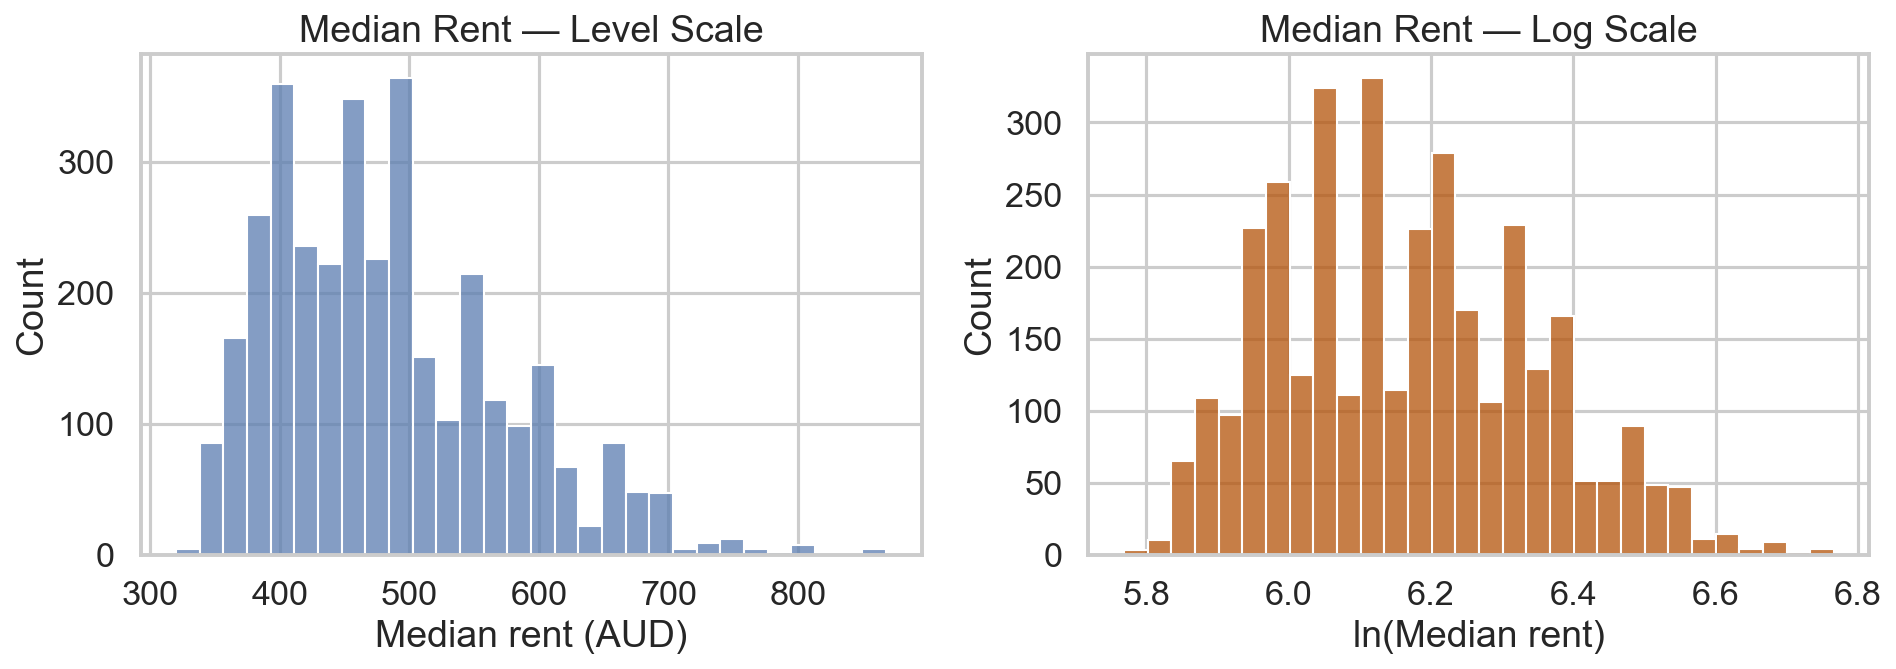
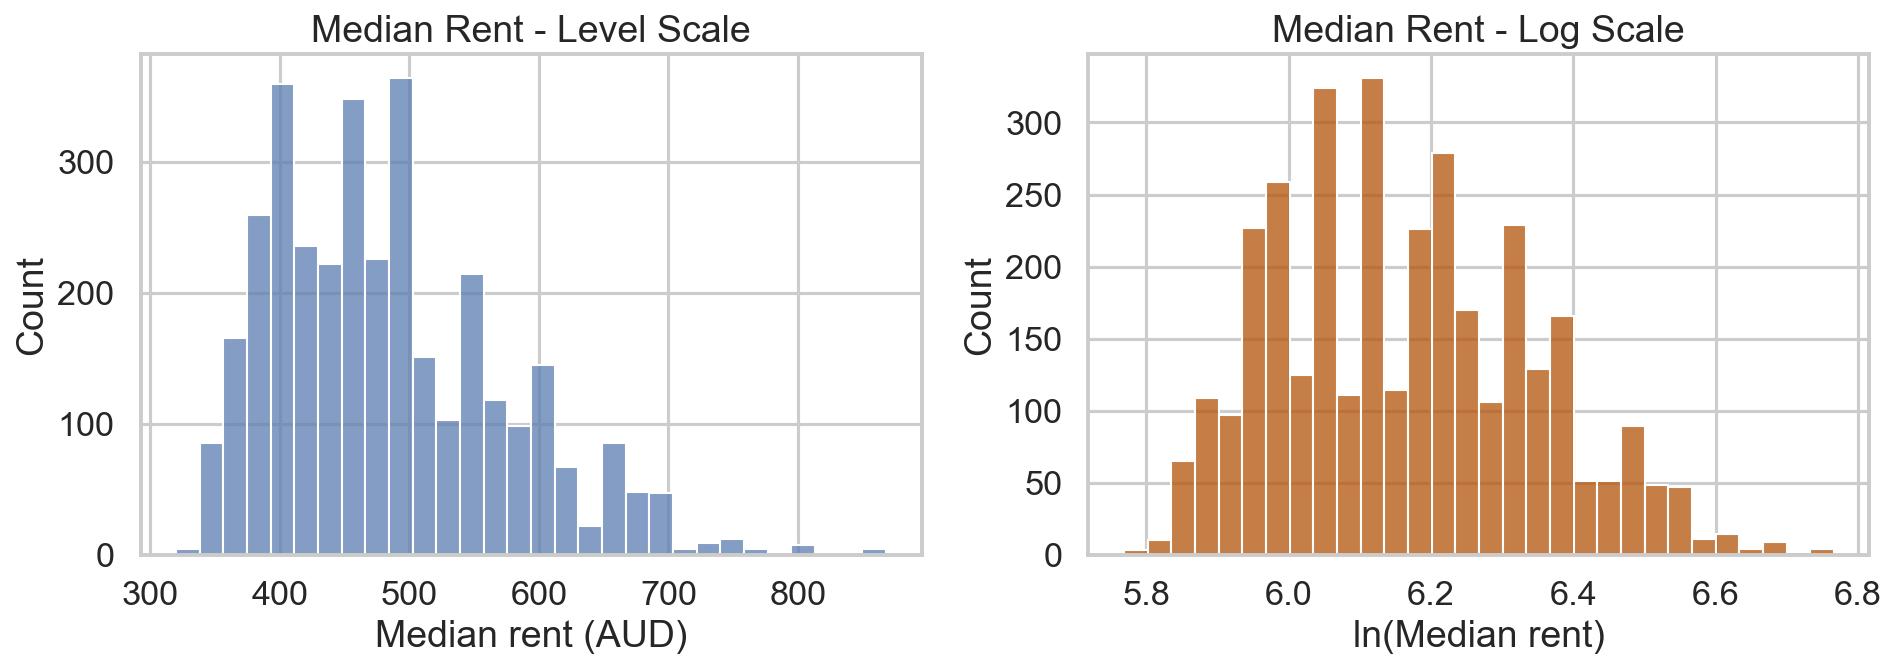
Replace em and en dashes with regular hyphens throughout repo

Changed region(s): [[0.1556, 0.0, 0.4045, 0.0598], [0.6535, 0.0, 0.9024, 0.0897]]

diff --git a/code/01_clean_data.py b/code/01_clean_data.py
@@ -1,5 +1,5 @@
 """
-01_clean_data.py — ECC3479 Research Project
+01_clean_data.py - ECC3479 Research Project
 Author: Anton Kozlovsky (36194239)
 
 PURPOSE:
@@ -27,7 +27,7 @@ import os
 
 # ── 1. CONFIGURATION ──────────────────────────────────────────────────
 # These are the file paths. The rent file should already be in data/raw/.
-# The vacancy file is optional — the script works without it.
+# The vacancy file is optional - the script works without it.
 
 RENT_FILE = "data/raw/Moving annual median rent by suburb and town - September quarter 2025.xlsx"
 VACANCY_FILE = "data/raw/vacancy_rates.csv"  # Add this file when you have it
@@ -53,7 +53,7 @@ START_YEAR = 2018
 # ── 2. LOAD THE RAW RENT DATA ────────────────────────────────────────
 # The Excel file has a messy layout:
 #   Row 0: title row
-#   Row 1: quarter labels (e.g. "Mar 2000", "Jun 2000", ...) — each
+#   Row 1: quarter labels (e.g. "Mar 2000", "Jun 2000", ...) - each
 #          quarter appears TWICE (once for Count, once for Median)
 #   Row 2: "Count" or "Median" labels
 #   Row 3 onwards: actual data

diff --git a/README.md b/README.md
@@ -1,4 +1,4 @@
-# ECC3479 Research Project — Vacancy Rates and Rent Growth
+# ECC3479 Research Project - Vacancy Rates and Rent Growth
 
 **Author:** Anton Kozlovsky (36194239)
 **Course:** ECC3479 Data and Evidence in Economics, Monash University
@@ -8,7 +8,7 @@
 > What is the effect of a suburb's rental vacancy rate on subsequent rent
 > growth in Melbourne?
 
-This project constructs a suburb-quarter panel for Melbourne (2018Q1–2025Q3)
+This project constructs a suburb-quarter panel for Melbourne (2018Q1-2025Q3)
 to investigate the relationship between rental vacancy rates and future rent
 changes using panel fixed effects. The current dataset contains rent data
 only; vacancy rate data could not be obtained due to access restrictions
@@ -88,18 +88,18 @@ written interpretations. Figures are saved to `outputs/`.
 
 - Python 3.9 or later
 - Packages listed in `requirements.txt`:
-  - `pandas` — data manipulation and cleaning
-  - `openpyxl` — reading Excel files
-  - `matplotlib` — plotting
-  - `seaborn` — statistical visualisation
-  - `numpy` — numerical operations
+  - `pandas` - data manipulation and cleaning
+  - `openpyxl` - reading Excel files
+  - `matplotlib` - plotting
+  - `seaborn` - statistical visualisation
+  - `numpy` - numerical operations
 
 ## Data Sources
 
 | Dataset | Source | Included? |
 |---------|--------|-----------|
 | Median rents by suburb (VIC) | Victorian Government DFFH, via data.vic.gov.au | Yes |
-| Rental vacancy rates | SQM Research | No — see [Limitations](#limitations) |
+| Rental vacancy rates | SQM Research | No - see [Limitations](#limitations) |
 
 ## Limitations
 
@@ -111,5 +111,5 @@ submission despite contacting SQM for academic access.
 As a result, the current dataset contains only the **dependent variable
 side** of the analysis (rent levels and rent growth). The cleaning
 pipeline is built to automatically merge vacancy data if it becomes
-available in the future — see [`data/raw/README.md`](data/raw/README.md)
+available in the future - see [`data/raw/README.md`](data/raw/README.md)
 for the expected format and download instructions.

diff --git a/data/raw/README.md b/data/raw/README.md
@@ -12,11 +12,11 @@ broken down by dwelling type (1-bed flat, 2-bed house, etc.) and an
 "All properties" aggregate. Quarterly data from March 2000 to September 2025.
 Based on bonds lodged with the Residential Tenancies Bond Authority.
 
-## Not included — proprietary data
+## Not included - proprietary data
 
 ### Vacancy Rate Data
 **File name (if obtained):** `vacancy_rates.csv`
-**Source:** SQM Research — Residential Vacancy Rates
+**Source:** SQM Research - Residential Vacancy Rates
 **URL:** https://sqmresearch.com.au/graph_vacancy.php
 **Why not included:** SQM Research requires a paid subscription for
 suburb-level data downloads. Academic access was requested but not

diff --git a/data/clean/CODEBOOK.md b/data/clean/CODEBOOK.md
@@ -1,4 +1,4 @@
-# Data Codebook — `suburb_quarter_panel.csv`
+# Data Codebook - `suburb_quarter_panel.csv`
 
 This file describes the variables in the cleaned dataset produced by
 `code/01_clean_data.py`.
